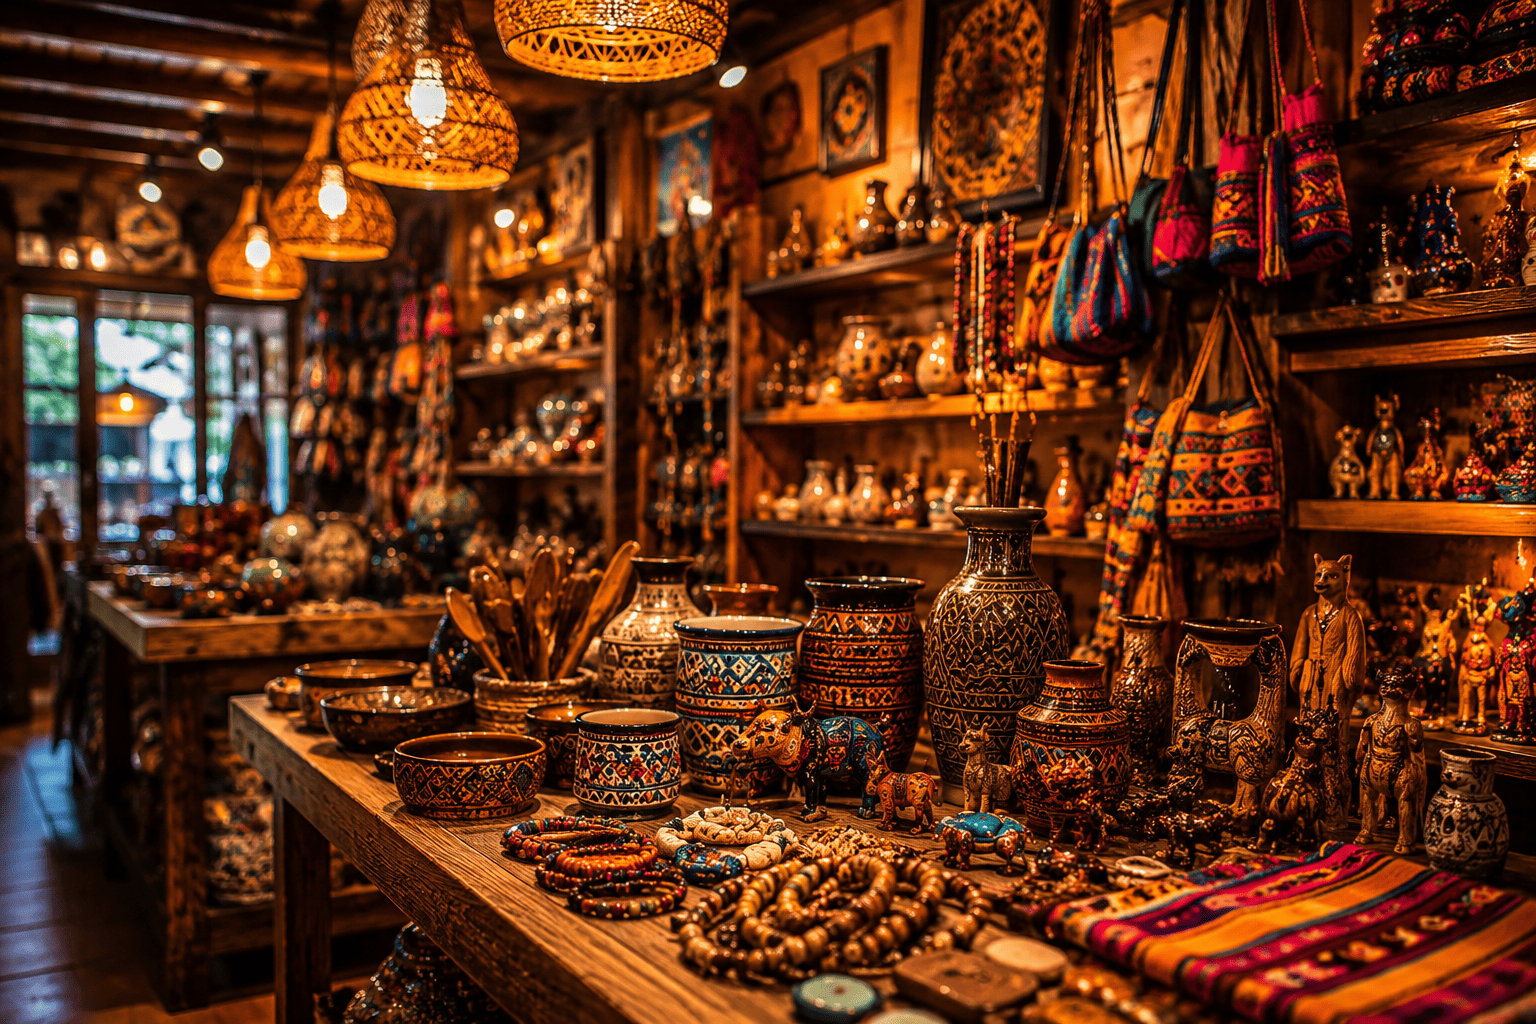
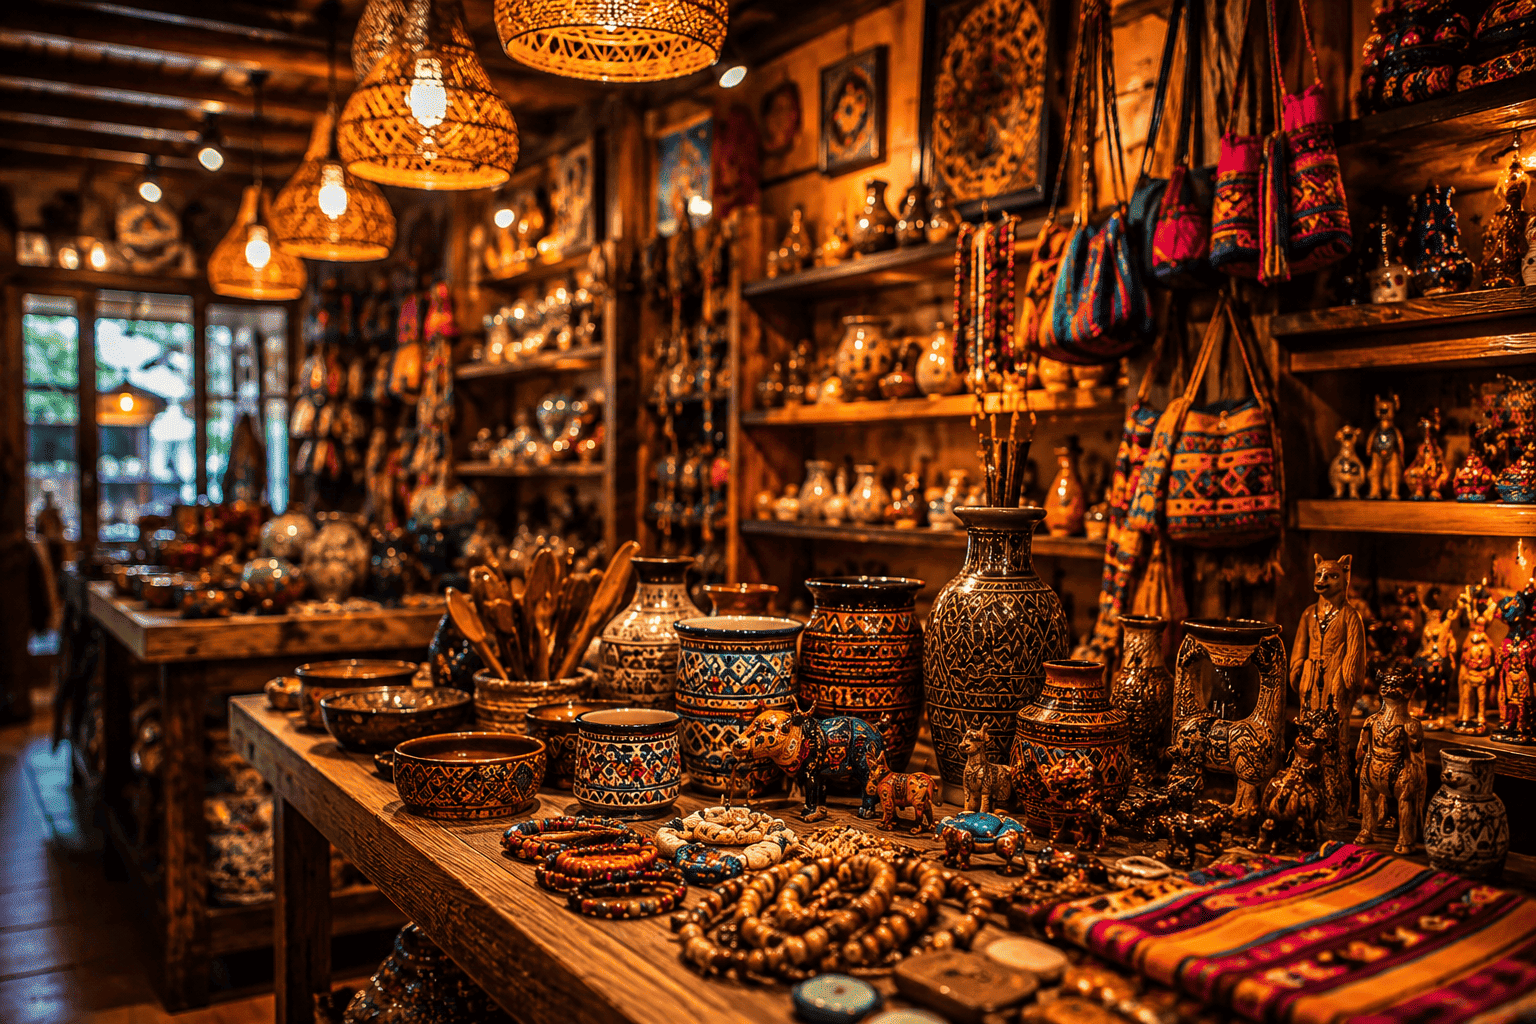
“…”

diff --git a/home/slider/slider.css b/home/slider/slider.css
@@ -318,7 +318,8 @@
   .gallery-card {
     width: clamp(130px, 47vw, 200px);
     height: clamp(82px, 25vw, 110px);
-    background-color: black;
+    background-color: black
+    ;
       animation-duration: 34s;
   }
 

diff --git a/index.php b/index.php
@@ -18,6 +18,7 @@
   ?>
 
   <!-- SEO principal para Google -->
+  <!-- SEO principal para Google -->
   <meta name="description" content="Descubre Chapinero, Bogotá con Chapitour: cafés, restaurantes, bares, cultura, alojamiento, planes locales y lugares para visitar.">
   <meta name="robots" content="index,follow,max-image-preview:large,max-snippet:-1,max-video-preview:-1">
   <meta name="googlebot" content="index,follow,max-image-preview:large,max-snippet:-1,max-video-preview:-1">
@@ -26,6 +27,117 @@
 
   <!-- Open Graph: WhatsApp / Facebook -->
   <meta property="og:type" content="website">
+<!-- Palabras clave en español e inglés -->
+<meta name="keywords" content="
+Chapitour,
+Chapinero,
+Bogotá,
+que hacer en chapinero,
+chapinero, Chapinero,
+almorzar en chapinero, 
+lugares cheveres en chapinero,
+que hacer en Chapinero,
+turismo en Chapinero,
+lugares para visitar en Chapinero,
+planes en Chapinero,
+qué hacer en Chapinero,
+guía turística de Chapinero,
+guía digital de Chapinero,
+turismo en Bogotá,
+lugares turísticos de Bogotá,
+planes en Bogotá,
+restaurantes en Chapinero,
+cafés en Chapinero,
+bares en Chapinero,
+gastrobares en Chapinero,
+comida rápida en Chapinero,
+panaderías en Chapinero,
+pastelerías en Chapinero,
+gastronomía en Chapinero,
+alojamiento en Chapinero,
+hoteles en Chapinero,
+hostales en Chapinero,
+cultura en Chapinero,
+arte en Chapinero,
+artesanías en Chapinero,
+naturaleza urbana en Bogotá,
+turismo urbano en Bogotá,
+comercio local en Chapinero,
+negocios en Chapinero,
+promociones en Chapinero,
+eventos en Chapinero,
+vida nocturna en Chapinero,
+planes de día en Chapinero,
+planes de noche en Chapinero,
+sitios recomendados en Chapinero,
+experiencias en Chapinero,
+actividades en Chapinero,
+rutas turísticas en Chapinero,
+destinos en Bogotá,
+comida colombiana en Chapinero,
+comida internacional en Chapinero,
+cafeterías en Bogotá,
+restaurantes recomendados en Bogotá,
+bares recomendados en Bogotá,
+turismo local en Colombia,
+viajar a Bogotá,
+visitar Chapinero,
+descubrir Chapinero,
+directorio comercial de Chapinero,
+
+Chapitour guide,
+Chapinero district,
+Bogota Colombia,
+tourism in Chapinero,
+places to visit in Chapinero,
+things to do in Chapinero,
+what to do in Chapinero,
+Chapinero travel guide,
+Chapinero digital guide,
+tourism in Bogota,
+tourist places in Bogota,
+things to do in Bogota,
+restaurants in Chapinero,
+cafes in Chapinero,
+bars in Chapinero,
+gastropubs in Chapinero,
+fast food in Chapinero,
+bakeries in Chapinero,
+pastry shops in Chapinero,
+gastronomy in Chapinero,
+accommodation in Chapinero,
+hotels in Chapinero,
+hostels in Chapinero,
+culture in Chapinero,
+art in Chapinero,
+handicrafts in Chapinero,
+urban nature in Bogota,
+urban tourism in Bogota,
+local businesses in Chapinero,
+businesses in Chapinero,
+special offers in Chapinero,
+events in Chapinero,
+nightlife in Chapinero,
+daytime activities in Chapinero,
+night-time activities in Chapinero,
+recommended places in Chapinero,
+experiences in Chapinero,
+activities in Chapinero,
+tourist routes in Chapinero,
+destinations in Bogota,
+Colombian food in Chapinero,
+international food in Chapinero,
+coffee shops in Bogota,
+recommended restaurants in Bogota,
+recommended bars in Bogota,
+local tourism in Colombia,
+travel to Bogota,
+visit Chapinero,
+discover Chapinero,
+Chapinero business directory
+">
+
+
   <meta property="og:site_name" content="Chapitour">
   <meta property="og:title" content="Chapitour | Lugares para visitar en Chapinero, Bogotá">
   <meta property="og:description" content="Explora Chapinero, Bogotá: cafés, restaurantes, bares, cultura, planes locales, alojamiento y lugares para visitar.">